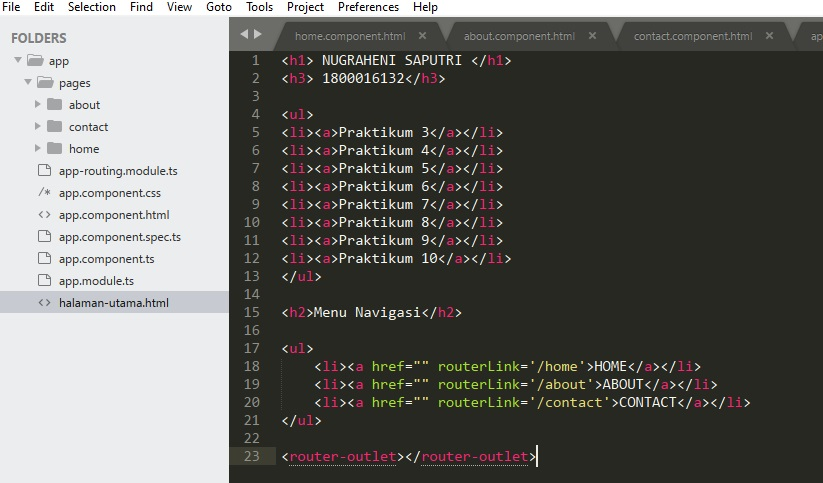
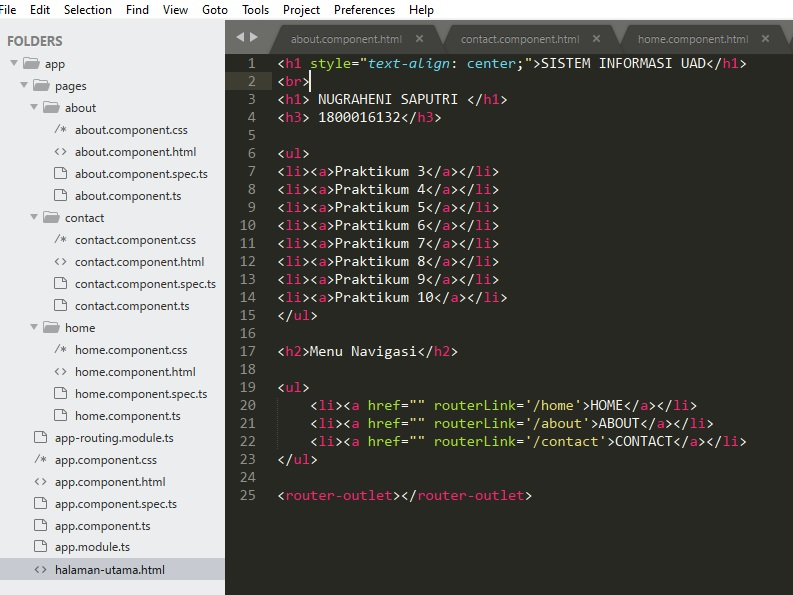
Upload Images

Changed region(s): [[0.0, 0.0, 1.0, 1.0]]

diff --git a/src/app/halaman-utama.html b/src/app/halaman-utama.html
@@ -1,3 +1,5 @@
+<h1 style="text-align: center;">SISTEM INFORMASI UAD</h1>
+<br>
 <h1> NUGRAHENI SAPUTRI </h1>
 <h3> 1800016132</h3>
 
